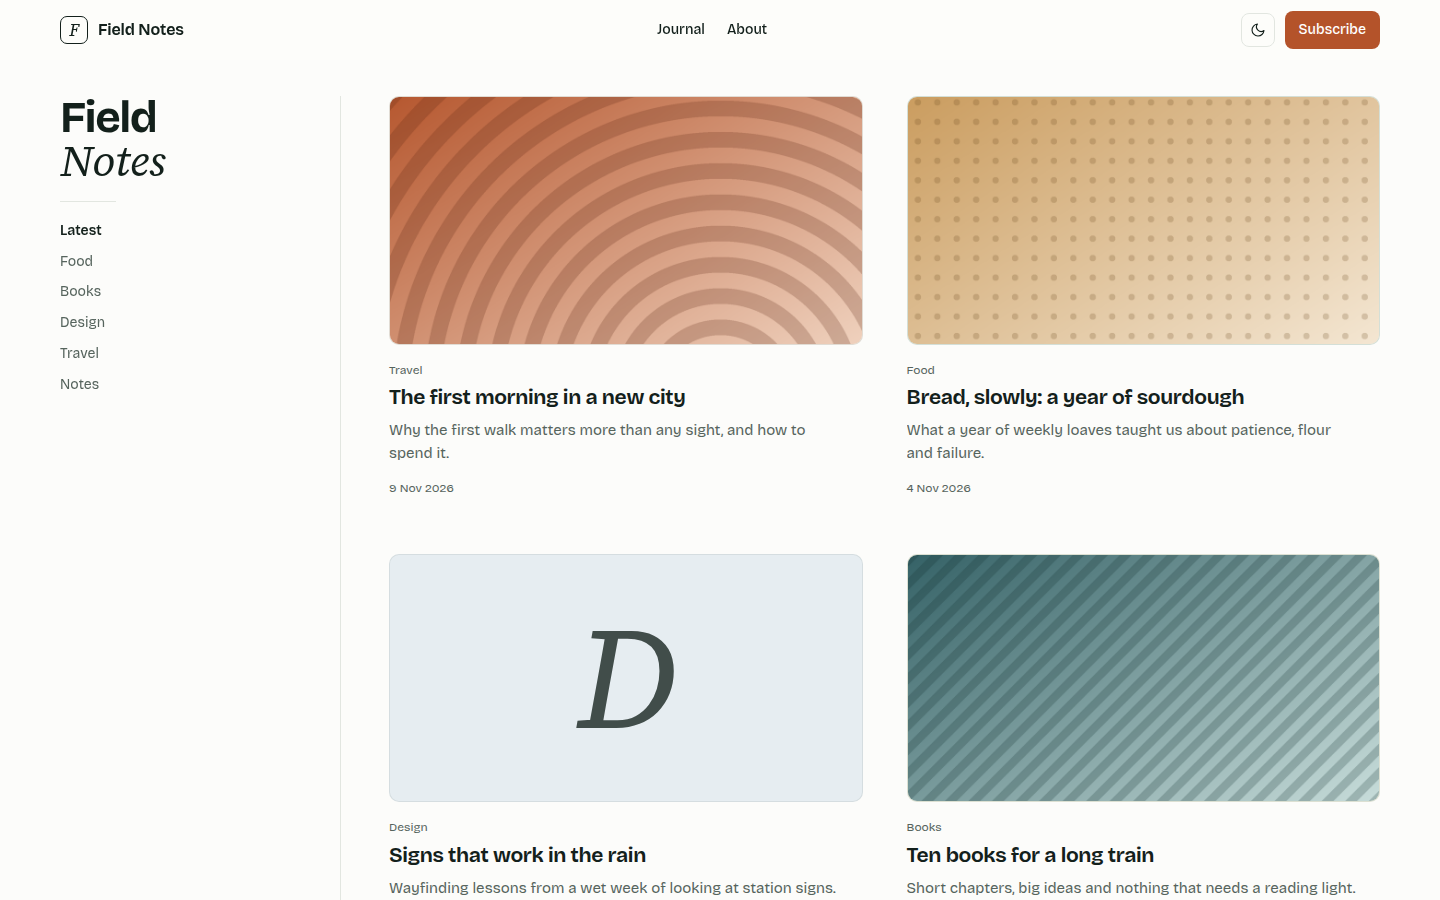
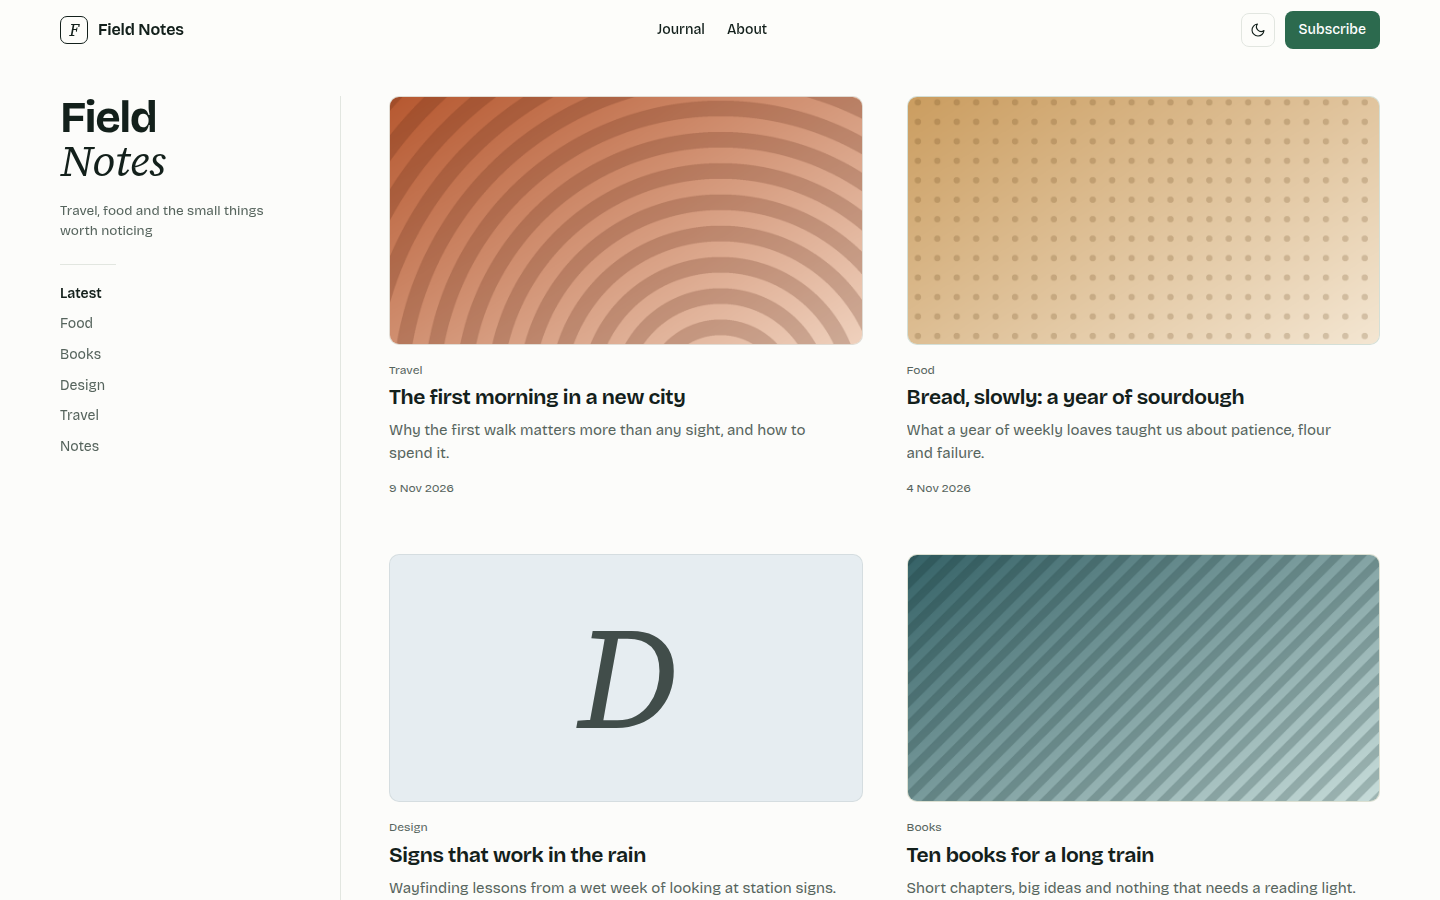
feat(yukigeshiki): README, changelog, registry screenshot

Changed region(s): [[0.0312, 0.2178, 0.1875, 0.4667], [0.875, 0.0, 0.9688, 0.0622]]

diff --git a/themes/yukigeshiki/README.md b/themes/yukigeshiki/README.md
@@ -19,16 +19,43 @@ hatamoto theme activate yukigeshiki
 Layouts and sections the theme does not ship come from the built-in theme, so every
 page keeps rendering.
 
+## What it ships
+
+- Home, single post, archive, category and tag, author, search and 404 layouts; plain pages use the built-in page layout, restyled to match.
+- A sticky, blurred top bar with a monogram, the menu, a colour toggle and a button; a menu that works without JavaScript on small screens.
+- A sticky sidebar with the site name (the last word on its own line, in italic serif), the tagline and the category list; on small screens the list becomes a row of chips.
+- A two-column card grid on soft panels: a tint per category, the featured image over it, or the category initial in italic serif when a post has no image.
+- Numbered pagination, a reading column for posts with serif italic quotes, and "More posts" under each article.
+- A footer with your quote, link columns and a legal row.
+- Light and dark. No JavaScript is needed for anything except the colour toggle.
+
 ## Settings
 
-**Theme > Themes > Yukigeshiki > Settings**:
+**Theme > Themes > Yukigeshiki > Settings**. Every setting has a default.
 
-| Setting | Default | What it does |
-| --- | --- | --- |
-| Colour mode | `light` | what a first visit shows: `light`, `dark` or `auto` (follows the system); visitors can still switch |
-| Spacing | `comfortable` | `compact` tightens the space between sections |
+| Setting | Type | Default | What it does |
+| --- | --- | --- | --- |
+| Colour mode (`color_mode`) | `light`, `dark`, `auto` | `auto` | What a first visit shows; `auto` follows the system. Visitors can still switch with the header toggle. |
+| Spacing (`density`) | `comfortable`, `compact` | `comfortable` | `compact` tightens the space between sections. |
+| Split masthead (`split_masthead`) | on/off | on | The last word of the site name on its own line, in italic serif. |
+| Tinted cards (`card_tints`) | on/off | on | A soft tint per category behind each card. Off gives one neutral panel. |
+| Show author (`show_author`) | on/off | on | The author line on cards and posts, when the post has an author. |
+| Button label (`cta_label`) | text | `Subscribe` | The header button. The site's own header button (Site settings) wins when set. |
+| Button address (`cta_url`) | URL | `/feed.xml` | Where the button leads; empty hides it. |
+| Footer quote (`footer_quote`) | text | empty | The italic line under the footer logo. Empty uses the site tagline. |
+| Address of the post archive (`archive_url`) | URL | `/blog` | Where the "Latest" links lead. |
 
-Colours, fonts and corners follow **Theme > Colours and fonts**.
+## Colours and fonts
+
+**Theme > Colours and fonts** restyles the primary colour, background, text, fonts and
+corners. The surface, tint, rule and muted tones are the theme's own, set for contrast on
+the default palette; in dark mode the primary colour is lightened to stay readable.
+
+## Fonts
+
+[Bricolage Grotesque](https://fonts.google.com/specimen/Bricolage+Grotesque) (headings and
+text) and [Source Serif 4](https://fonts.google.com/specimen/Source+Serif+4) (italic accents),
+both under the SIL Open Font License 1.1, bundled in `assets/fonts/` with their licences.
 
 ## Develop
 
@@ -36,7 +63,7 @@ From the root of the `hatamoto-themes` repository:
 
 ```sh
 scripts/dev-site.sh blog themes/yukigeshiki --serve   # a seeded local site with this theme, live reload
-scripts/check.sh themes/yukigeshiki                            # the full check: package, render, browser, screenshot
+scripts/check.sh themes/yukigeshiki --screenshot   # the full check, and the registry preview
 ```
 
 `dev/` is not part of the package.

diff --git a/themes/yukigeshiki/CHANGELOG.md b/themes/yukigeshiki/CHANGELOG.md
@@ -3,3 +3,8 @@
 ## 0.1.0
 
 - First version.
+- Layouts: home, single post, archive, category and tag, author, search and 404; plain pages restyled.
+- A sticky sidebar with a split masthead and the category list, a chip row on small screens, and a two-column card grid on category tints.
+- Settings: colour mode (default follows the system), spacing, split masthead, tinted cards, show author, header button label and address, footer quote, archive address.
+- Light and dark colour modes, with a toggle and a saved choice; text meets WCAG AA contrast in both.
+- Bricolage Grotesque and Source Serif 4, self-hosted under the SIL Open Font License 1.1.
